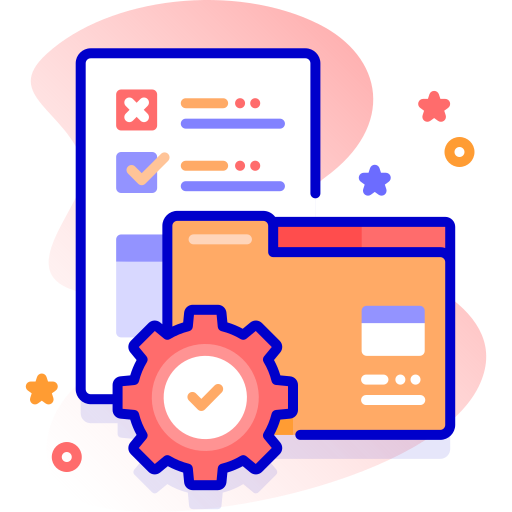
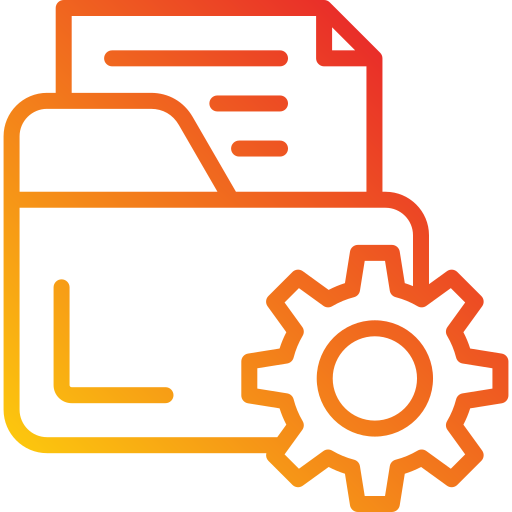
Few UI more adjustments and the attribution section from Readme updated

diff --git a/src/ui/file_organizer_view.py b/src/ui/file_organizer_view.py
@@ -12,7 +12,7 @@ class FileOrganizerCustomizationDialog(QDialog):
     def __init__(self, parent=None):
         super().__init__(parent)
         self.setWindowTitle("Organize Files")
-        self.setFixedSize(400, 610)
+        self.setFixedSize(400, 620)
 
         # Initialize the checkbox dictionary
         self.checkbox_dict = {}
@@ -37,8 +37,9 @@ class FileOrganizerCustomizationDialog(QDialog):
 
         # Icon
         icon_label = QLabel()
-        icon_pixmap = QPixmap("assets/photos/file_management.png")  # Icon sourced from Freepik - Flaticon
-        icon_pixmap = icon_pixmap.scaled(40, 40, Qt.KeepAspectRatio, Qt.SmoothTransformation)
+        icon_pixmap = QPixmap("assets/photos/file_management.png")  # Icon by Uniconlabs
+        icon_pixmap = icon_pixmap.scaled(43, 43, Qt.KeepAspectRatio, Qt.SmoothTransformation)
+        icon_label.setContentsMargins(0, 0, 0, 5)
         icon_label.setPixmap(icon_pixmap)
         icon_label.setAlignment(Qt.AlignCenter)
 
@@ -46,7 +47,7 @@ class FileOrganizerCustomizationDialog(QDialog):
         short_description = QLabel("Manage your files efficiently with options to\nsort, detect duplicates, and more.")
         short_description.setAlignment(Qt.AlignCenter)
         short_description.setWordWrap(True)
-        short_description.setStyleSheet("color: #A1A2A2; font-size: 12px;")
+        short_description.setStyleSheet("color: #C9D3D5; font-size: 12px;")
         short_description.setSizePolicy(QSizePolicy.Expanding, QSizePolicy.Preferred)
 
         # Add widgets to header layout

diff --git a/README.md b/README.md
@@ -116,3 +116,6 @@ Both the Organize Files and Automate Data Entry dialogs will include an "Undo La
 ## Attribution
 
 - Photo by [Dariusz Sankowski](https://unsplash.com/@dariuszsankowski) on [Unsplash](https://unsplash.com/photos/3OiYMgDKJ6k)
+- Icons from [Freepik](https://www.freepik.com/):
+    - [Favourite folder icon](https://www.freepik.com/icon/favourite-folder_11471618#fromView=search&page=1&position=42&uuid=622cae6d-d6fe-404e-b11b-ecc936850666) by [juicy_fish](https://www.freepik.com/author/juicy-fish/icons)
+    - [Folder icon](https://www.freepik.com/icon/folder_5656334#fromView=search&page=2&position=44&uuid=cdb3aadb-5903-44e2-9587-04d09fab2e19) by [Uniconlabs](https://www.freepik.com/author/batitok/icons)
